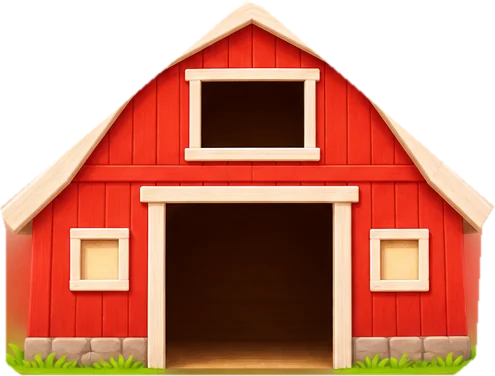
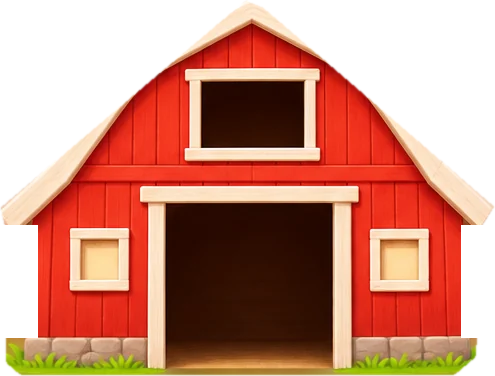
v0.4.1: flowers only on open grass, barn haze removed, rounded clouds
Claude-Session: https://claude.ai/code/session_01WCNo3FhgybRF5ZdEUJcMvy

Changed region(s): [[0.0, 0.5851, 0.0909, 0.9069], [0.9091, 0.5851, 1.0, 0.9069]]

diff --git a/src/scene/sky.ts b/src/scene/sky.ts
@@ -6,7 +6,7 @@ import { sfx } from '../audio/clips';
 import { speak } from '../audio/speech';
 import { img, fit } from '../art/sprites';
 import { sparkleAt, ripple, raindrop } from './fx';
-import { addFlower } from './ground';
+import { addFlower, flowerSpotOk } from './ground';
 
 const SUN = { x: 1420, y: 130 };
 let skyTaps = 0;
@@ -36,7 +36,7 @@ function rain(c: { x: number; y: number; raining: boolean }) {
     const x = c.x + rnd(-95, 95), ty = rnd(680, 890), i = k++;
     raindrop(x, c.y + 45, ty, () => {
       if (inPond(x, ty)) { if (i % 2 === 0) ripple(x, ty); }
-      else if (i % 4 === 0) addFlower(x, ty);
+      else if (i % 4 === 0 && flowerSpotOk(x, ty)) addFlower(x, ty);
     });
   }, 60);
   setTimeout(() => { clearInterval(iv); c.raining = false; }, 2400);

diff --git a/src/scene/ground.ts b/src/scene/ground.ts
@@ -12,6 +12,14 @@ const FLOWER_H = 60;
 const flowers: (Interactive & { id: string; g: Element })[] = [];
 let n = 0;
 
+/** Flowers only grow on open grass: not in or around the pond, not on the path, not under the barn. */
+export function flowerSpotOk(x: number, y: number) {
+  if (((x - 830) / 262) ** 2 + ((y - 782) / 96) ** 2 < 1) return false;           // pond and its rim
+  if (y > 640) { const cx = 330 + (y - 655) * .457, hw = 55 + (y - 655) * .48; if (Math.abs(x - cx) < hw) return false; } // path
+  if (x < 590 && y < 680) return false;                                              // barn front
+  return y > 680;
+}
+
 export function addFlower(x: number, y: number, instant = false) {
   const id = 'fl' + (n++);
   const g = el('g', { 'data-id': id }, $('lFlowers'));
